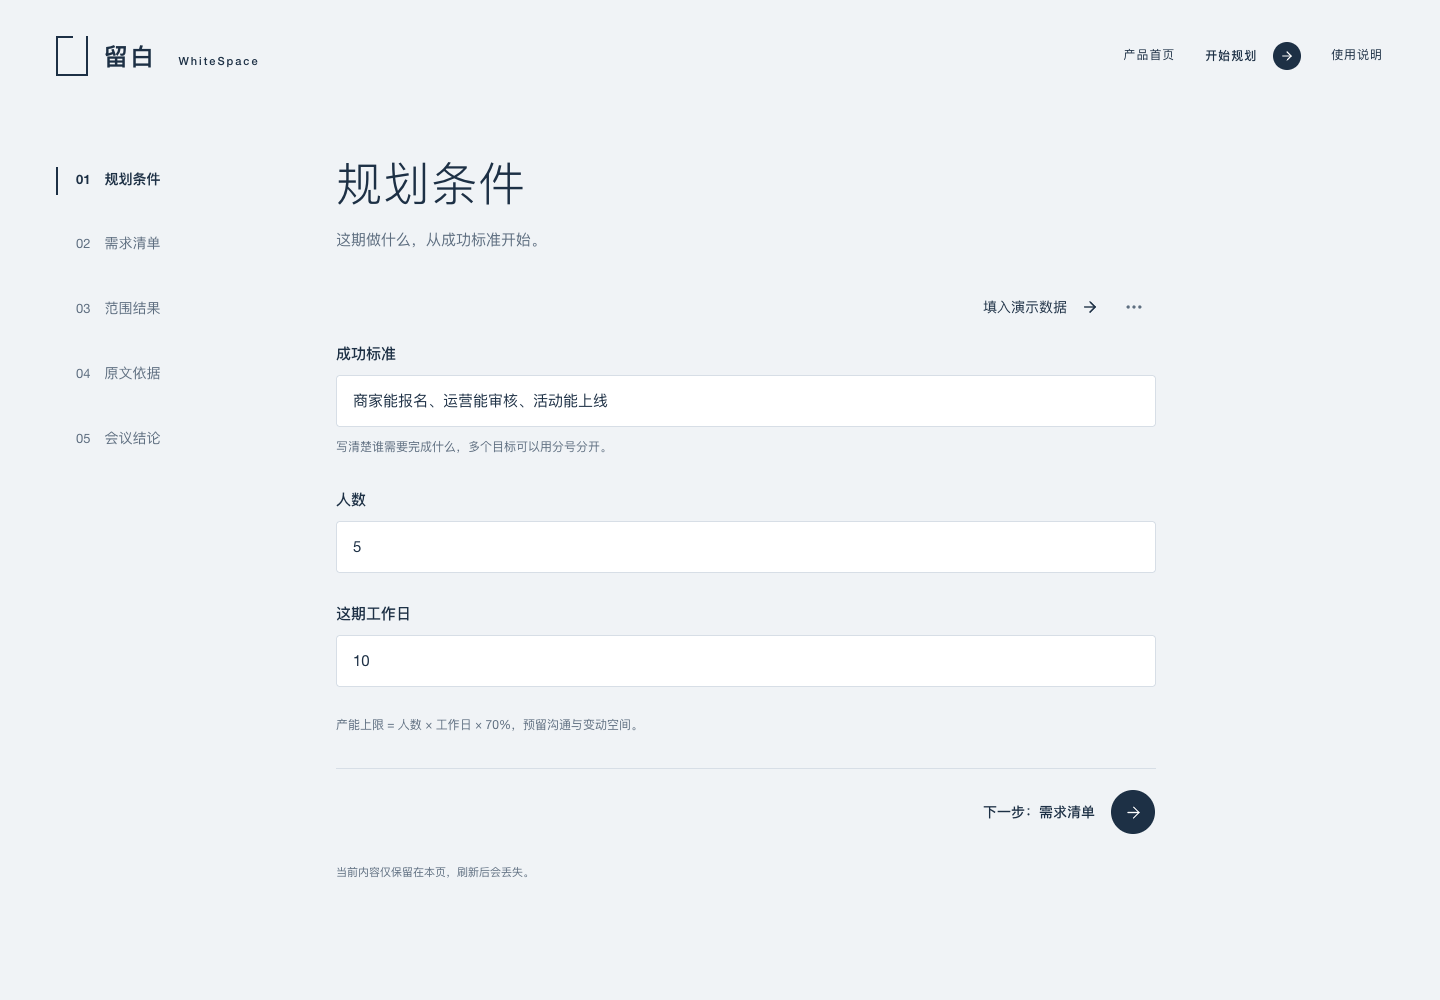
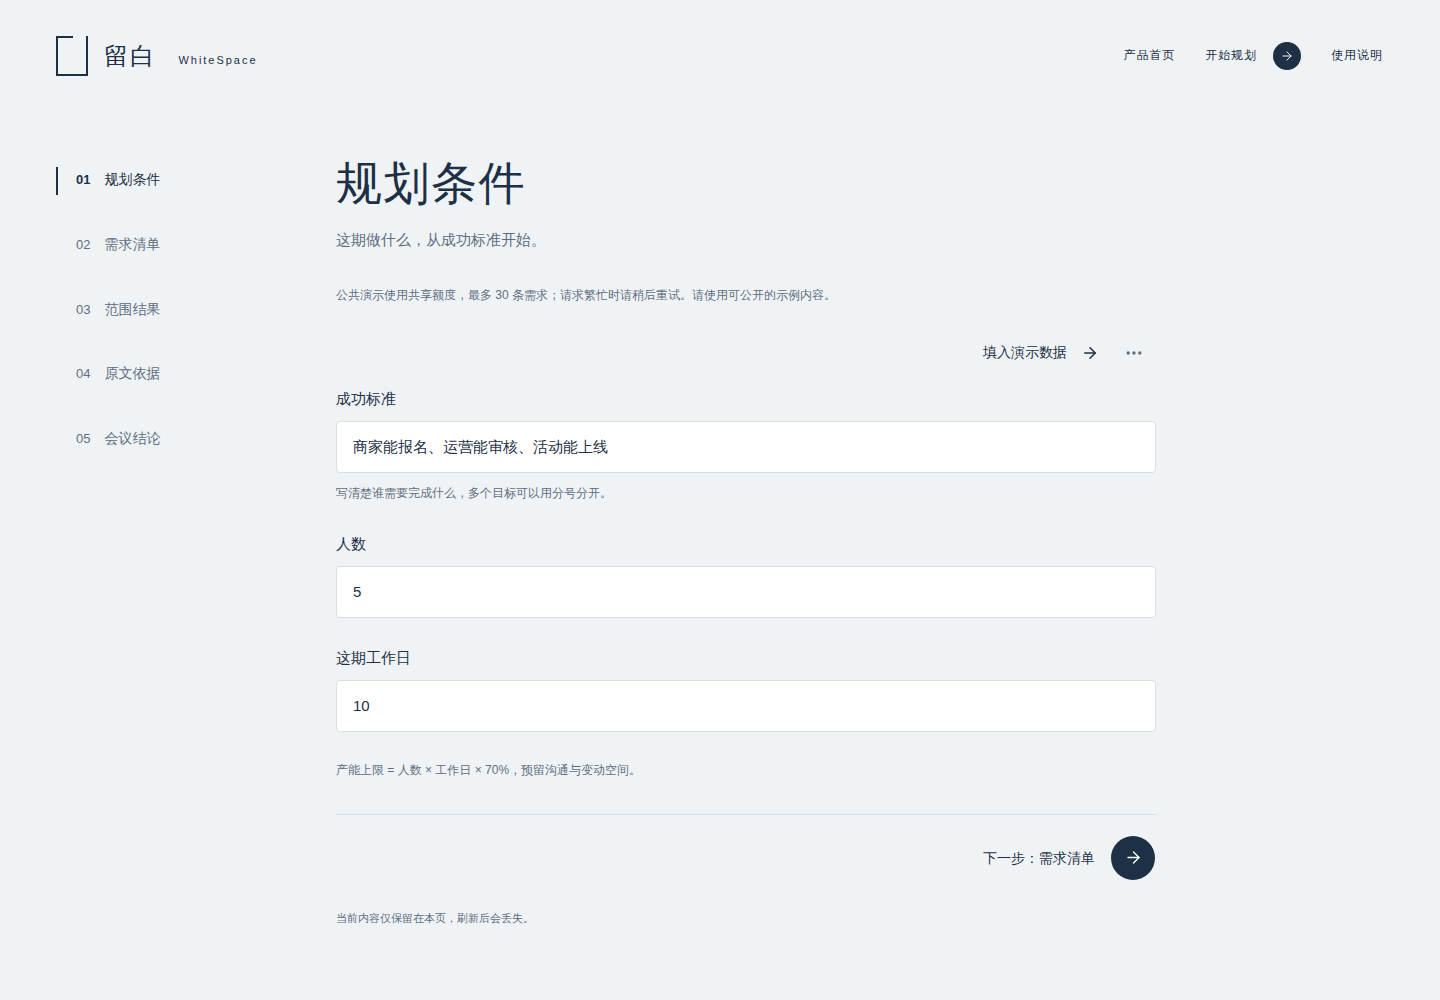
docs: publish verified online demo and production screenshots [skip ci]

diff --git a/README.md b/README.md
@@ -5,6 +5,8 @@
 [![CI](https://github.com/hexing-ai/whitespace/actions/workflows/ci.yml/badge.svg)](https://github.com/hexing-ai/whitespace/actions/workflows/ci.yml)
 [![License: MIT](https://img.shields.io/badge/License-MIT-1d3045.svg)](LICENSE)
 
+**[在线体验 →](https://whitespace-junz11055-8124.vercel.app)** · 无需登录，点击“用示例体验”即可开始。公共 Demo 使用真实百炼调用，有共享额度与频率限制；请勿输入业务机密。
+
 规划会上，难的往往不是列出想做什么，而是说清楚：**这期必须做什么，为什么，以及什么先不承诺。**
 
 留白把成功标准、需求依赖和团队产能放在一起分析，生成可核对的 MoSCoW 范围建议，并把取舍整理成一份可复制的会议结论。
